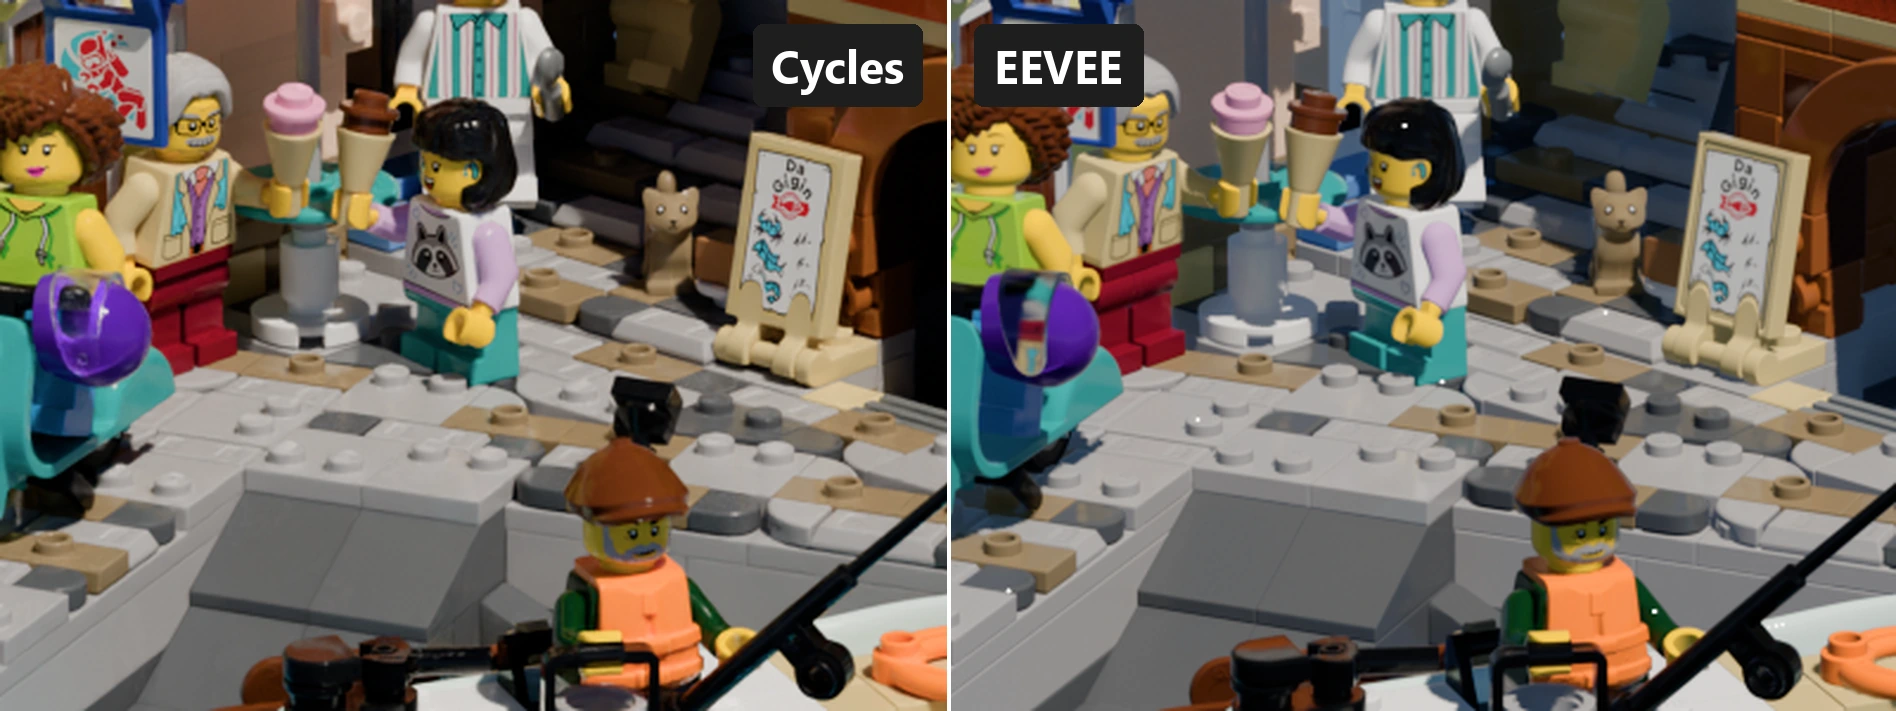
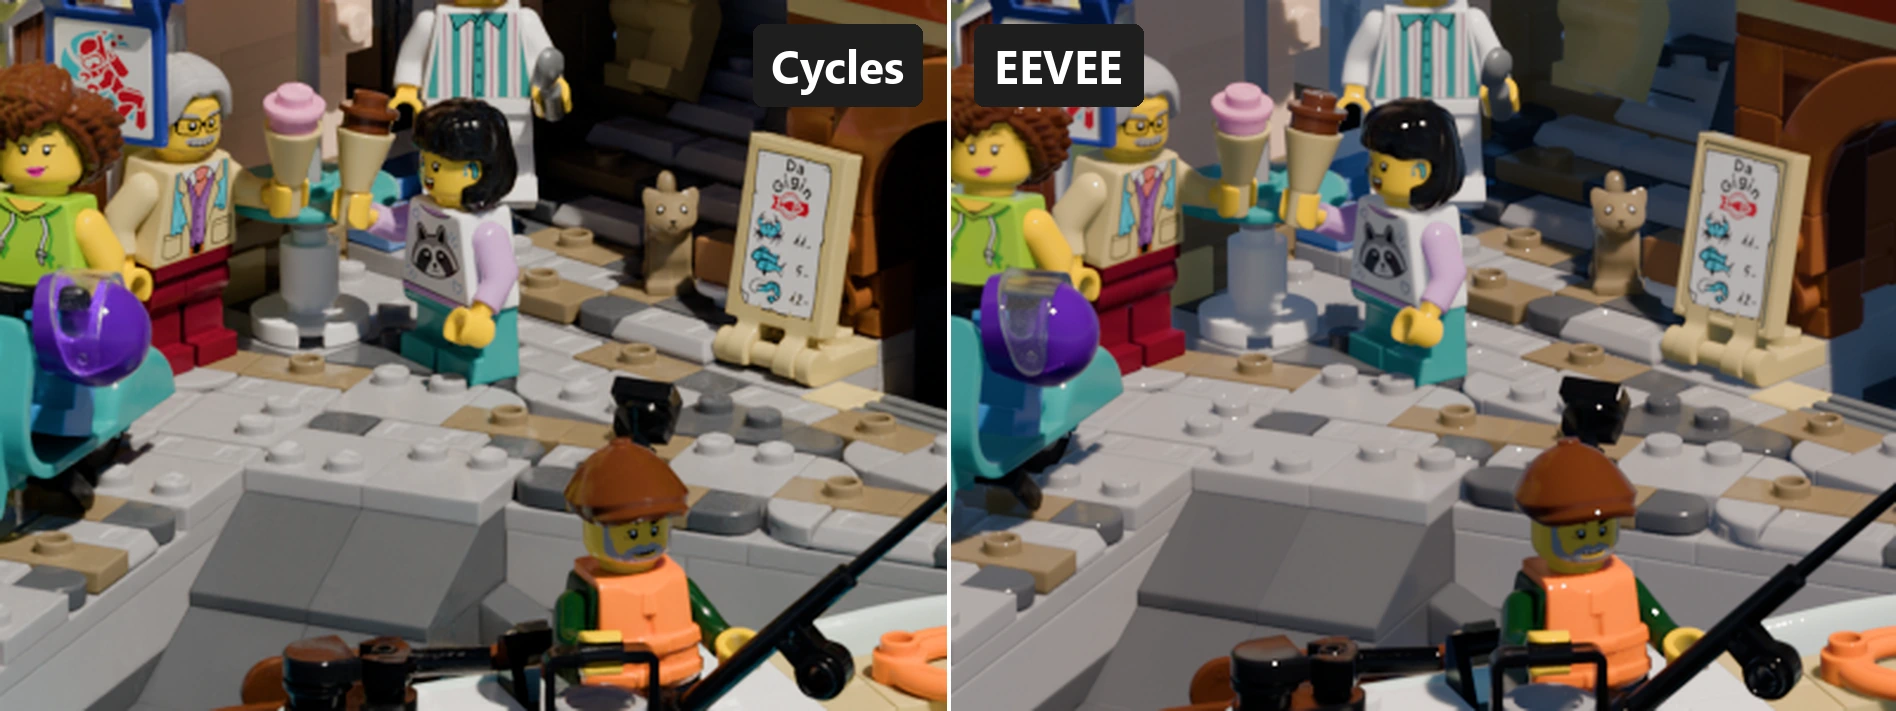
Cycles vs EEVEE comparison on the latest state: Blender 5.3, current Mecabricks import, 256 samples each; transparent water explained in Known issues
Claude-Session: https://claude.ai/code/session_016LfxA3BkU3PFSQ53PfA4nA

diff --git a/docs/compare/index.html b/docs/compare/index.html
@@ -4,7 +4,7 @@
 <meta charset="utf-8">
 <meta name="viewport" content="width=device-width, initial-scale=1">
 <title>Renderbricker – Cycles vs EEVEE</title>
-<meta name="description" content="The same view rendered with Cycles and with EEVEE by Renderbricker 1.2.6 – drag the bar to compare.">
+<meta name="description" content="The same view rendered with Cycles and with EEVEE (Blender 5.3, 256 samples) by Renderbricker 1.2.6 – drag the bar to compare.">
 <style>
   :root { --bg: #16181c; --fg: #e8e8e8; --muted: #9aa0a8; --label: rgba(30, 30, 30, .92); --bar: #fff; }
   * { box-sizing: border-box; }
@@ -37,8 +37,8 @@
 <body>
 <main>
   <h1>Cycles vs EEVEE</h1>
-  <p>The same view of the Italian Riviera (Mecabricks), converted with Renderbricker 1.2.6 and rendered with the
-     render camera, 128 samples each. Drag the bar – or use the slider or the arrow keys.</p>
+  <p>The same view of the Italian Riviera (Mecabricks), imported with the current Mecabricks add-on, converted with
+     Renderbricker 1.2.6 and rendered with the render camera in Blender 5.3, 256 samples each. Drag the bar – or use the slider or the arrow keys.</p>
   <div class="compare" id="cmp" tabindex="0" aria-label="Comparison: drag to move the bar">
     <img src="cycles.webp" alt="Rendered with Cycles" width="1920" height="1080">
     <img class="eevee-img" src="eevee.webp" alt="Rendered with EEVEE" width="1920" height="1080">
@@ -48,7 +48,7 @@
   </div>
   <input type="range" id="pos" min="0" max="100" value="50" step="0.1" aria-label="Position of the bar">
   <p style="margin-top:16px">EEVEE comes close in light and shadow; glass looks milky where Cycles shows the room
-     behind it, and transparent water lets shadows through. EEVEE is the quick preview – for the final picture use
+     behind it, and transparent parts such as the water look grey, where Cycles lets light through them. EEVEE is the quick preview – for the final picture use
      Cycles. <a href="https://github.com/Renderbricks/Renderbricker/blob/main/docs/TUTORIAL.md#step-7-the-render-camera">Tutorial, step 7</a>
      · <a href="https://github.com/Renderbricks/Renderbricker">Renderbricker on GitHub</a></p>
   <footer>© 2026 Renderbricks®. LEGO® is a trademark of the LEGO Group, which does not sponsor, authorize or endorse this site.</footer>

diff --git a/docs/TUTORIAL.md b/docs/TUTORIAL.md
@@ -235,13 +235,14 @@ level 2). *All views* at 50 % gives the six slots below in about half a minute.
 
 ![All views: the six slots of the Render window](images/tutorial/T08b_all_views.webp)
 
-**Cycles or EEVEE:** the same view with both engines, each at *Low* (128 samples). EEVEE comes close in
-light and shadow – its sun lamp follows the sky – but glass looks milky where Cycles shows the room
-behind it, insides are lighter, and transparent water lets shadows through – the boat casts none on it
-in EEVEE (see [Known issues](KNOWN_ISSUES.md#eevee-glass-and-insides)). EEVEE is the quick preview; for
-the final picture, and always with glass or water in front, use Cycles.
+**Cycles or EEVEE:** the same view with both engines, imported with the current Mecabricks add-on and
+rendered in Blender 5.3 at 256 samples each. EEVEE comes close in light and shadow – its sun lamp follows
+the sky, the shadows lie in the same place – but glass looks milky where Cycles shows the room behind it,
+insides are lighter, and transparent parts such as the water around the boat look grey where Cycles lets
+light through them (see [Known issues](KNOWN_ISSUES.md#eevee-glass-and-insides)). EEVEE is the quick
+preview; for the final picture, and always with glass or water in front, use Cycles.
 
-[![Cycles left, EEVEE right of the moving bar – the same view at 128 samples](images/tutorial/T08e_compare_anim.webp)](https://renderbricks.github.io/Renderbricker/compare/)
+[![Cycles left, EEVEE right of the moving bar – the same view at 256 samples](images/tutorial/T08e_compare_anim.webp)](https://renderbricks.github.io/Renderbricker/compare/)
 
 **[Compare interactively →](https://renderbricks.github.io/Renderbricker/compare/)** – drag the bar
 across the picture yourself. The detail below is the square and the boat at twice the size:

diff --git a/docs/KNOWN_ISSUES.md b/docs/KNOWN_ISSUES.md
@@ -27,6 +27,6 @@ default.
 
 EEVEE refracts only what is already in the picture. Behind a window pane the room is hidden by the pane itself, so EEVEE shows the sky there and the glass looks milky, where Cycles shows the dark room behind it. For the same reason EEVEE lights the insides of arches and rooms brighter than Cycles. Real transparency, thicker panes or a reflection probe did not change this in tests; for pictures with glass in front, use Cycles.
 
-Transparent parts let EEVEE's shadows through: the boat on the water of the Italian Riviera casts no shadow on the transparent blue plates in EEVEE, while Cycles lights the water physically and shows it. With water or glass in front, render the final picture with Cycles.
+Transparent parts look grey in EEVEE: the transparent water plates around the boat of the Italian Riviera glow turquoise in Cycles, where light passes through them, and look grey in EEVEE, which shows the darker plates beneath without that light – the water looks dull, as if in shadow. The shadows themselves lie in the same place in both engines. With water or glass in front, render the final picture with Cycles.
 
 </div>
